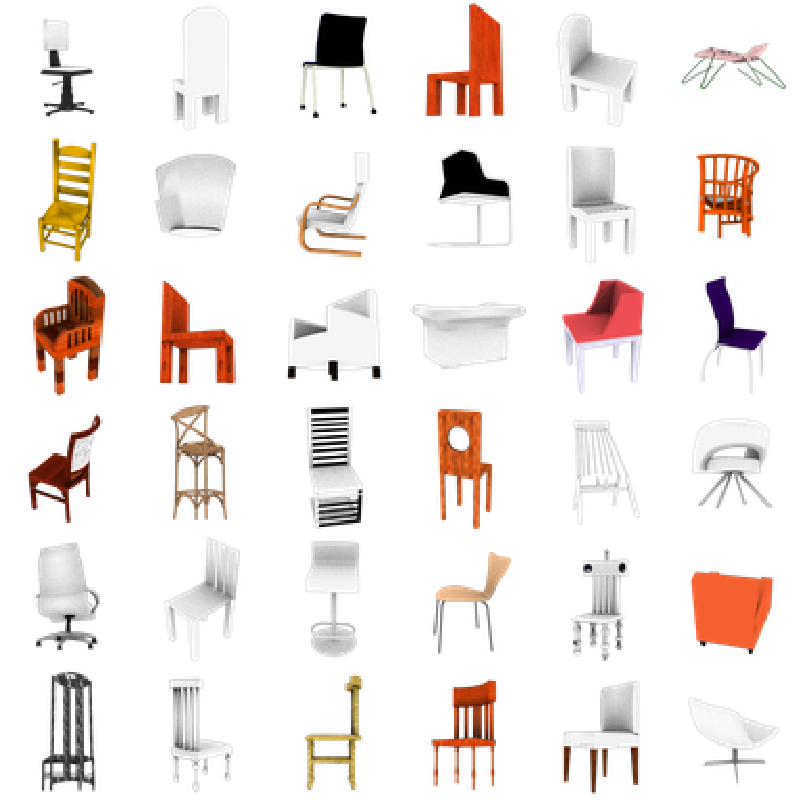
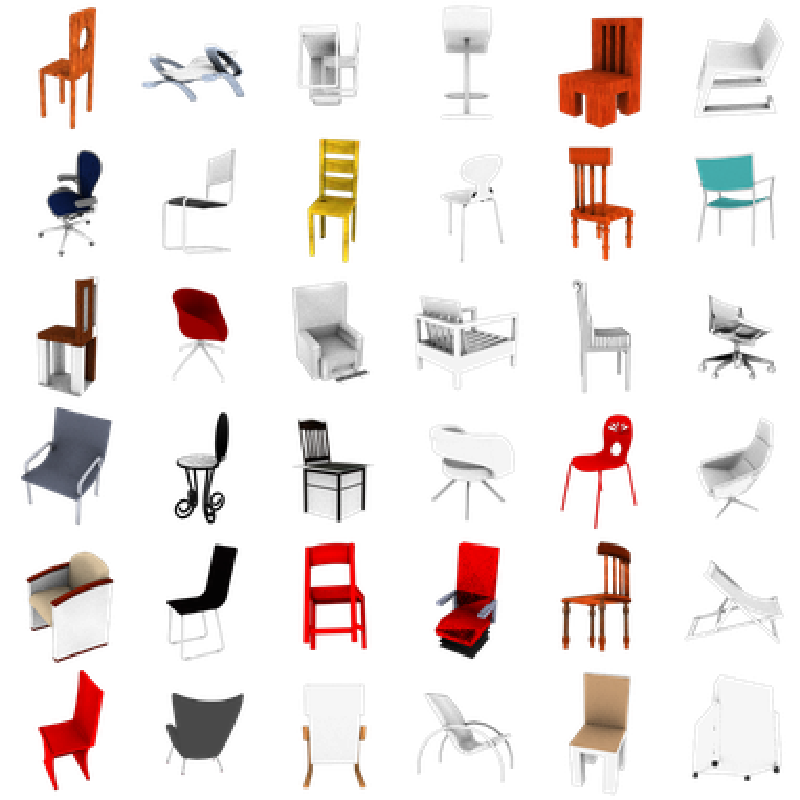
use resnet19 for generator

diff --git a/lib/model.py b/lib/model.py
@@ -236,150 +236,7 @@ def generator(input_shape,
     name = 'gen_resblock_0'
     shape = (d, d, in_channels)
     out_channels = 1024
-    # conv2
-    x = ResBlockBottleneck(input_shape=shape,
-                 channels=out_channels,
-                 sampling='None',
-                 spectral_normalization=spectral_normalization,
-                 bn_epsilon=bn_epsilon,
-                 bn_momentum=bn_momentum,
-                 name='gen_resblock_01')(x)
-    shape = (d, d, out_channels)
-    x = ResBlockBottleneck(input_shape=shape,
-                 channels=out_channels,
-                 sampling='None',
-                 spectral_normalization=spectral_normalization,
-                 bn_epsilon=bn_epsilon,
-                 bn_momentum=bn_momentum,
-                 name='gen_resblock_02')(x)
-    x = ResBlockBottleneck(input_shape=shape,
-                 channels=out_channels,
-                 sampling='up',
-                 spectral_normalization=spectral_normalization,
-                 bn_epsilon=bn_epsilon,
-                 bn_momentum=bn_momentum,
-                 name='gen_resblock_03')(x)
-
-    #conv3
-    name = 'gen_resblock_1'
-    d = input_shape[0] // 16
-    shape = (d, d, in_channels)
-    out_channels = 512
-    x = ResBlockBottleneck(input_shape=shape,
-                 channels=out_channels,
-                 sampling='none',
-                 spectral_normalization=spectral_normalization,
-                 bn_epsilon=bn_epsilon,
-                 bn_momentum=bn_momentum,
-                 name='gen_resblock_10')(x)
-    shape = (d, d, out_channels)
-    x = ResBlockBottleneck(input_shape=shape,
-                 channels=out_channels,
-                 sampling='None',
-                 spectral_normalization=spectral_normalization,
-                 bn_epsilon=bn_epsilon,
-                 bn_momentum=bn_momentum,
-                 name='gen_resblock_11')(x)
-    x = ResBlockBottleneck(input_shape=shape,
-                 channels=out_channels,
-                 sampling='None',
-                 spectral_normalization=spectral_normalization,
-                 bn_epsilon=bn_epsilon,
-                 bn_momentum=bn_momentum,
-                 name='gen_resblock_12')(x)
-    x = ResBlockBottleneck(input_shape=shape,
-                 channels=out_channels,
-                 sampling='up',
-                 spectral_normalization=spectral_normalization,
-                 bn_epsilon=bn_epsilon,
-                 bn_momentum=bn_momentum,
-                 name='gen_resblock_13')(x)
-
-    #conv4
-    name = 'gen_resblock_2'
-    d = input_shape[0] // 8
-    in_channels = 512
-    shape = (d, d, in_channels)
-    out_channels = 256
-    x = ResBlockBottleneck(input_shape=shape,
-                 channels=out_channels,
-                 sampling='none',
-                 spectral_normalization=spectral_normalization,
-                 bn_epsilon=bn_epsilon,
-                 bn_momentum=bn_momentum,
-                 name='gen_resblock_20')(x)
-    shape = (d, d, out_channels)
-    x = ResBlockBottleneck(input_shape=shape,
-                 channels=out_channels,
-                 sampling='None',
-                 spectral_normalization=spectral_normalization,
-                 bn_epsilon=bn_epsilon,
-                 bn_momentum=bn_momentum,
-                 name='gen_resblock_21')(x)
-    x = ResBlockBottleneck(input_shape=shape,
-                 channels=out_channels,
-                 sampling='None',
-                 spectral_normalization=spectral_normalization,
-                 bn_epsilon=bn_epsilon,
-                 bn_momentum=bn_momentum,
-                 name='gen_resblock_22')(x)
-    x = ResBlockBottleneck(input_shape=shape,
-                 channels=out_channels,
-                 sampling='None',
-                 spectral_normalization=spectral_normalization,
-                 bn_epsilon=bn_epsilon,
-                 bn_momentum=bn_momentum,
-                 name='gen_resblock_23')(x)
-    x = ResBlockBottleneck(input_shape=shape,
-                 channels=out_channels,
-                 sampling='None',
-                 spectral_normalization=spectral_normalization,
-                 bn_epsilon=bn_epsilon,
-                 bn_momentum=bn_momentum,
-                 name='gen_resblock_24')(x)
-    x = ResBlockBottleneck(input_shape=shape,
-                 channels=out_channels,
-                 sampling='up',
-                 spectral_normalization=spectral_normalization,
-                 bn_epsilon=bn_epsilon,
-                 bn_momentum=bn_momentum,
-                 name='gen_resblock_25')(x)
-
-    #conv5
-    name = 'gen_resblock_3'
-    d = input_shape[0] // 4
-    in_channels = 256
-    shape = (d, d, in_channels)
-    out_channels = 128
-    x = ResBlockBottleneck(input_shape=shape,
-                 channels=out_channels,
-                 sampling='None',
-                 spectral_normalization=spectral_normalization,
-                 bn_epsilon=bn_epsilon,
-                 bn_momentum=bn_momentum,
-                 name='gen_resblock_30')(x)
-    shape = (d, d, out_channels)
-    x = ResBlockBottleneck(input_shape=shape,
-                 channels=out_channels,
-                 sampling='None',
-                 spectral_normalization=spectral_normalization,
-                 bn_epsilon=bn_epsilon,
-                 bn_momentum=bn_momentum,
-                 name='gen_resblock_31')(x)
-    x = ResBlockBottleneck(input_shape=shape,
-                 channels=out_channels,
-                 sampling='up',
-                 spectral_normalization=spectral_normalization,
-                 bn_epsilon=bn_epsilon,
-                 bn_momentum=bn_momentum,
-                 name='gen_resblock_32')(x)
-
-    name = 'gen_resblock_4'
-    d = input_shape[0] // 2
-    in_channels = 128
-    shape = (d, d, in_channels)
-    out_channels = 64
-    x = ResBlockBottleneck(input_shape=shape,
+    x = ResBlock(input_shape=shape,
                  channels=out_channels,
                  sampling='up',
                  spectral_normalization=spectral_normalization,
@@ -387,16 +244,56 @@ def generator(input_shape,
                  bn_momentum=bn_momentum,
                  name=name)(x)
 
-    # for i in range(5):
-    #    k = 2 ** i
-    #    name = "gen_resblock_" + str(i)
-    #    x = ResBlock(input_shape=(d * k, d * k, channels),
-    #                 channels=(channels // 2),
-    #                 sampling='up',
-    #                 bn_epsilon=bn_epsilon,
-    #                 bn_momentum=bn_momentum,
-    #                 name=name)(x)
-    #    channels //= 2
+    name = 'gen_resblock_1'
+    d = input_shape[0] // 16
+    shape = (d, d, in_channels)
+    out_channels = 512
+    x = ResBlock(input_shape=shape,
+                 channels=out_channels,
+                 sampling='up',
+                 spectral_normalization=spectral_normalization,
+                 bn_epsilon=bn_epsilon,
+                 bn_momentum=bn_momentum,
+                 name=name)(x)
+
+    name = 'gen_resblock_2'
+    d = input_shape[0] // 8
+    in_channels = 512
+    shape = (d, d, in_channels)
+    out_channels = 256
+    x = ResBlock(input_shape=shape,
+                 channels=out_channels,
+                 sampling='up',
+                 spectral_normalization=spectral_normalization,
+                 bn_epsilon=bn_epsilon,
+                 bn_momentum=bn_momentum,
+                 name=name)(x)
+
+    name = 'gen_resblock_3'
+    d = input_shape[0] // 4
+    in_channels = 256
+    shape = (d, d, in_channels)
+    out_channels = 128
+    x = ResBlock(input_shape=shape,
+                 channels=out_channels,
+                 sampling='up',
+                 spectral_normalization=spectral_normalization,
+                 bn_epsilon=bn_epsilon,
+                 bn_momentum=bn_momentum,
+                 name=name)(x)
+
+    name = 'gen_resblock_4'
+    d = input_shape[0] // 2
+    in_channels = 128
+    shape = (d, d, in_channels)
+    out_channels = 64
+    x = ResBlock(input_shape=shape,
+                 channels=out_channels,
+                 sampling='up',
+                 spectral_normalization=spectral_normalization,
+                 bn_epsilon=bn_epsilon,
+                 bn_momentum=bn_momentum,
+                 name=name)(x)
 
     x = BatchNormalization(epsilon=bn_epsilon, momentum=bn_momentum)(x)
     x = Activation('relu')(x)

diff --git a/pc2pix.py b/pc2pix.py
@@ -264,12 +264,12 @@ class PC2Pix():
                 history_file.close()
 
             if (step + 1) % (save_interval * 2) == 0:
-                if os.path.isdir("weights/backup/resnet50_patchgan_" + str(step)) == False:
-                    os.mkdir("weights/backup/resnet50_patchgan_" + str(step))
+                if os.path.isdir("weights/backup/resnet19_patchgan_" + str(step)) == False:
+                    os.mkdir("weights/backup/resnet19_patchgan_" + str(step))
                 self.generator_single.save_weights(
-                    "weights/backup/resnet50_patchgan_" + str(step) + "/chair-gen-color-" + str(step) + ".h5")
+                    "weights/backup/resnet19_patchgan_" + str(step) + "/chair-gen-color-" + str(step) + ".h5")
                 self.discriminator_single.save_weights(
-                    "weights/backup/resnet50_patchgan_" + str(step) + "/chair-dis-color-" + str(step) + ".h5")
+                    "weights/backup/resnet19_patchgan_" + str(step) + "/chair-dis-color-" + str(step) + ".h5")
 
 
     def azim_loss(self, y_true, y_pred):
